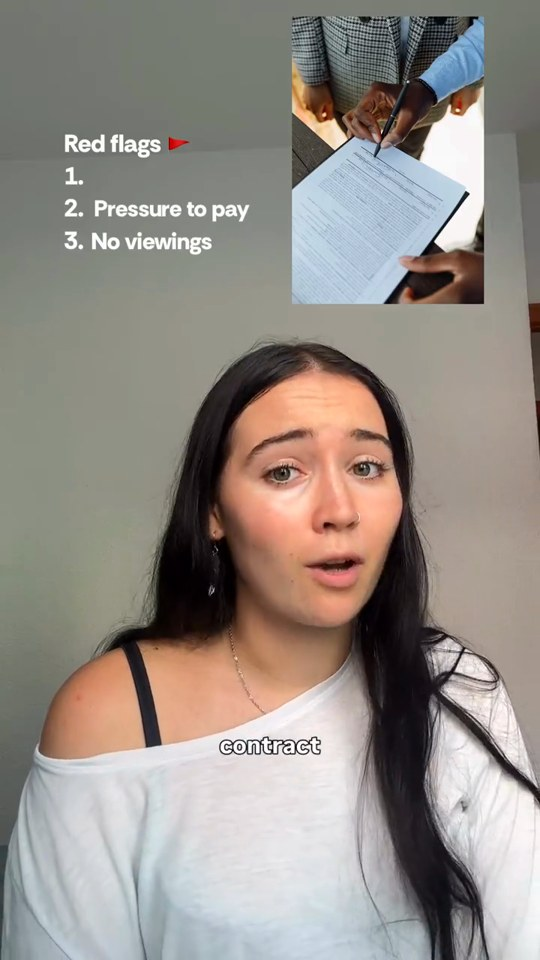
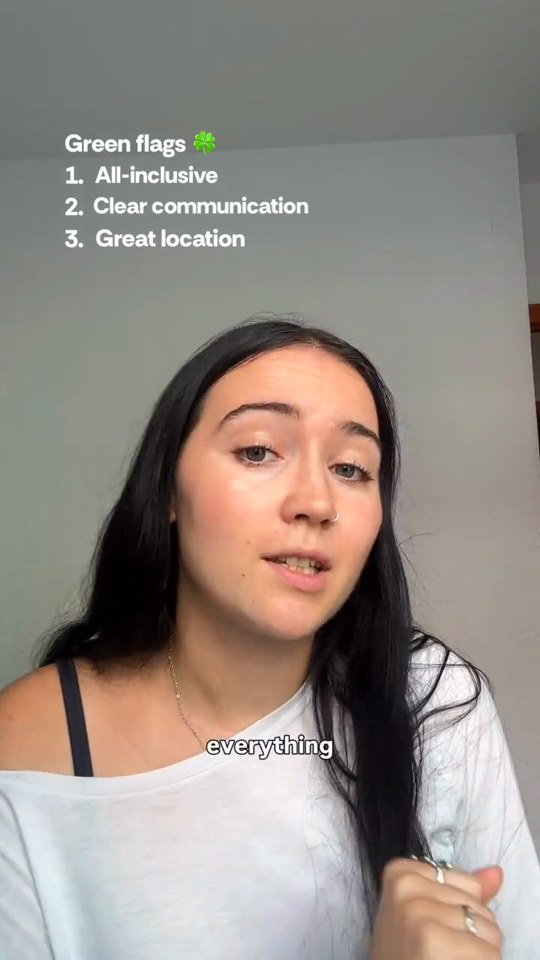
Add files via upload

diff --git a/index.html b/index.html
@@ -9,7 +9,7 @@
 <link rel="preconnect" href="https://fonts.googleapis.com">
 <link rel="preconnect" href="https://fonts.gstatic.com" crossorigin>
 <link href="https://fonts.googleapis.com/css2?family=Geist:wght@300;400;500;600;700&family=Inter:wght@400;500&family=Space+Grotesk:wght@500;700&display=swap" rel="stylesheet">
-<link rel="stylesheet" href="assets/css/style.css?v=15">
+<link rel="stylesheet" href="assets/css/style.css?v=16">
 
 <meta property="og:type" content="website">
 <meta property="og:title" content="Digna Studio - Designer | Creator | UGC">
@@ -155,10 +155,10 @@
         <h3 class="ha-h ha-h2">Contact</h3>
         <ul class="ha-list ha-small">
           <li>the Netherlands | Spain</li>
-          <li><a href="mailto:digna.lambrichtsx@gmail.com">digna.lambrichtsx@gmail.com</a></li>
+          <li><a href="mailto:info@dignastudio.com">info@dignastudio.com</a></li>
         </ul>
       </div>
-      <div class="ha-col ha-col-r reveal" style="padding-top:118px;">
+      <div class="ha-col ha-col-r reveal">
         <div class="ha-stat">
           <h3 class="ha-h">Years of<br>Experience</h3>
           <div class="ha-num" data-count="6">6</div>
@@ -210,9 +210,9 @@
       <div class="footer-cta">
         <span class="corner tl"></span><span class="corner tr"></span>
         <span class="corner bl"></span><span class="corner br"></span>
-        <a class="footer-swap" href="mailto:digna.lambrichtsx@gmail.com" aria-label="Email Digna">
+        <a class="footer-swap" href="mailto:info@dignastudio.com" aria-label="Email Digna">
           <span class="fs-line fs-a">Let us help you take your social media to the next level</span>
-          <span class="fs-line fs-b" aria-hidden="true">digna.lambrichtsx@gmail.com</span>
+          <span class="fs-line fs-b" aria-hidden="true">info@dignastudio.com</span>
         </a>
       </div>
       <div class="footer-bar">

diff --git a/ugc.html b/ugc.html
@@ -69,7 +69,7 @@
 
 <section class="section section-light"><div class="container">
 <div class="sec-head reveal"><p class="sec-num blue">01</p><h2 class="mid-title" style="text-transform:uppercase;color:var(--ink);">Let me introduce<br>myself</h2></div>
-<p class="lead reveal" style="color:#555;max-width:54ch;margin-top:34px;">I&rsquo;m Digna, a UGC strategist and content creator with 4+ years of experience in content creation. I create video that feels like a recommendation from a friend &mdash; because that is what converts.</p>
+<p class="lead reveal" style="color:#555;max-width:54ch;margin-top:34px;">I&rsquo;m Digna, a UGC strategist and content creator with 4+ years of experience in content creation. I create video that feels like a recommendation from a friend, because that is what converts.</p>
 <div class="ugc-niche-tags reveal"><span>Travel</span><span>Beauty</span><span>Lifestyle</span><span>Retail</span></div>
 </div></section>
 
@@ -233,9 +233,9 @@
       <div class="footer-cta">
         <span class="corner tl"></span><span class="corner tr"></span>
         <span class="corner bl"></span><span class="corner br"></span>
-        <a class="footer-swap" href="mailto:digna.lambrichtsx@gmail.com" aria-label="Email Digna">
+        <a class="footer-swap" href="mailto:info@dignastudio.com" aria-label="Email Digna">
           <span class="fs-line fs-a">Let us help you take your social media to the next level</span>
-          <span class="fs-line fs-b" aria-hidden="true">digna.lambrichtsx@gmail.com</span>
+          <span class="fs-line fs-b" aria-hidden="true">info@dignastudio.com</span>
         </a>
       </div>
       <div class="footer-bar">

diff --git a/projects/malmo.html b/projects/malmo.html
@@ -9,7 +9,7 @@
 <link rel="preconnect" href="https://fonts.googleapis.com">
 <link rel="preconnect" href="https://fonts.gstatic.com" crossorigin>
 <link href="https://fonts.googleapis.com/css2?family=Geist:wght@300;400;500;600;700&family=Inter:wght@400;500&family=Space+Grotesk:wght@500;700&display=swap" rel="stylesheet">
-<link rel="stylesheet" href="../assets/css/style.css?v=15">
+<link rel="stylesheet" href="../assets/css/style.css?v=16">
 
 <meta property="og:type" content="website">
 <meta property="og:title" content="Interaction Design, Malmö — DignaStudio">
@@ -163,9 +163,9 @@
       <div class="footer-cta">
         <span class="corner tl"></span><span class="corner tr"></span>
         <span class="corner bl"></span><span class="corner br"></span>
-        <a class="footer-swap" href="mailto:digna.lambrichtsx@gmail.com" aria-label="Email Digna">
+        <a class="footer-swap" href="mailto:info@dignastudio.com" aria-label="Email Digna">
           <span class="fs-line fs-a">Let us help you take your social media to the next level</span>
-          <span class="fs-line fs-b" aria-hidden="true">digna.lambrichtsx@gmail.com</span>
+          <span class="fs-line fs-b" aria-hidden="true">info@dignastudio.com</span>
         </a>
       </div>
       <div class="footer-bar">

diff --git a/projects/sydney-heel-pain-clinic.html b/projects/sydney-heel-pain-clinic.html
@@ -9,7 +9,7 @@
 <link rel="preconnect" href="https://fonts.googleapis.com">
 <link rel="preconnect" href="https://fonts.gstatic.com" crossorigin>
 <link href="https://fonts.googleapis.com/css2?family=Geist:wght@300;400;500;600;700&family=Inter:wght@400;500&family=Space+Grotesk:wght@500;700&display=swap" rel="stylesheet">
-<link rel="stylesheet" href="../assets/css/style.css?v=15">
+<link rel="stylesheet" href="../assets/css/style.css?v=16">
 
 <meta property="og:type" content="website">
 <meta property="og:title" content="Sydney Heel Pain Clinic — DignaStudio">
@@ -124,9 +124,9 @@
       <div class="footer-cta">
         <span class="corner tl"></span><span class="corner tr"></span>
         <span class="corner bl"></span><span class="corner br"></span>
-        <a class="footer-swap" href="mailto:digna.lambrichtsx@gmail.com" aria-label="Email Digna">
+        <a class="footer-swap" href="mailto:info@dignastudio.com" aria-label="Email Digna">
           <span class="fs-line fs-a">Let us help you take your social media to the next level</span>
-          <span class="fs-line fs-b" aria-hidden="true">digna.lambrichtsx@gmail.com</span>
+          <span class="fs-line fs-b" aria-hidden="true">info@dignastudio.com</span>
         </a>
       </div>
       <div class="footer-bar">

diff --git a/branding/alchemy-all-metal.html b/branding/alchemy-all-metal.html
@@ -9,7 +9,7 @@
 <link rel="preconnect" href="https://fonts.googleapis.com">
 <link rel="preconnect" href="https://fonts.gstatic.com" crossorigin>
 <link href="https://fonts.googleapis.com/css2?family=Geist:wght@300;400;500;600;700&family=Inter:wght@400;500&family=Space+Grotesk:wght@500;700&display=swap" rel="stylesheet">
-<link rel="stylesheet" href="../assets/css/style.css?v=15">
+<link rel="stylesheet" href="../assets/css/style.css?v=16">
 
 <meta property="og:type" content="website">
 <meta property="og:title" content="Alchemy All Metal — DignaStudio">
@@ -100,9 +100,9 @@
       <div class="footer-cta">
         <span class="corner tl"></span><span class="corner tr"></span>
         <span class="corner bl"></span><span class="corner br"></span>
-        <a class="footer-swap" href="mailto:digna.lambrichtsx@gmail.com" aria-label="Email Digna">
+        <a class="footer-swap" href="mailto:info@dignastudio.com" aria-label="Email Digna">
           <span class="fs-line fs-a">Let us help you take your social media to the next level</span>
-          <span class="fs-line fs-b" aria-hidden="true">digna.lambrichtsx@gmail.com</span>
+          <span class="fs-line fs-b" aria-hidden="true">info@dignastudio.com</span>
         </a>
       </div>
       <div class="footer-bar">

diff --git a/about.html b/about.html
@@ -9,7 +9,7 @@
 <link rel="preconnect" href="https://fonts.googleapis.com">
 <link rel="preconnect" href="https://fonts.gstatic.com" crossorigin>
 <link href="https://fonts.googleapis.com/css2?family=Geist:wght@300;400;500;600;700&family=Inter:wght@400;500&family=Space+Grotesk:wght@500;700&display=swap" rel="stylesheet">
-<link rel="stylesheet" href="assets/css/style.css?v=15">
+<link rel="stylesheet" href="assets/css/style.css?v=16">
 
 <meta property="og:type" content="website">
 <meta property="og:title" content="About Digna - Designer | Creator | UGC">
@@ -140,9 +140,9 @@
       <div class="footer-cta">
         <span class="corner tl"></span><span class="corner tr"></span>
         <span class="corner bl"></span><span class="corner br"></span>
-        <a class="footer-swap" href="mailto:digna.lambrichtsx@gmail.com" aria-label="Email Digna">
+        <a class="footer-swap" href="mailto:info@dignastudio.com" aria-label="Email Digna">
           <span class="fs-line fs-a">Let us help you take your social media to the next level</span>
-          <span class="fs-line fs-b" aria-hidden="true">digna.lambrichtsx@gmail.com</span>
+          <span class="fs-line fs-b" aria-hidden="true">info@dignastudio.com</span>
         </a>
       </div>
       <div class="footer-bar">

diff --git a/projects/greenscene.html b/projects/greenscene.html
@@ -9,7 +9,7 @@
 <link rel="preconnect" href="https://fonts.googleapis.com">
 <link rel="preconnect" href="https://fonts.gstatic.com" crossorigin>
 <link href="https://fonts.googleapis.com/css2?family=Geist:wght@300;400;500;600;700&family=Inter:wght@400;500&family=Space+Grotesk:wght@500;700&display=swap" rel="stylesheet">
-<link rel="stylesheet" href="../assets/css/style.css?v=15">
+<link rel="stylesheet" href="../assets/css/style.css?v=16">
 
 <meta property="og:type" content="website">
 <meta property="og:title" content="The Green Scene — DignaStudio">
@@ -111,9 +111,9 @@
       <div class="footer-cta">
         <span class="corner tl"></span><span class="corner tr"></span>
         <span class="corner bl"></span><span class="corner br"></span>
-        <a class="footer-swap" href="mailto:digna.lambrichtsx@gmail.com" aria-label="Email Digna">
+        <a class="footer-swap" href="mailto:info@dignastudio.com" aria-label="Email Digna">
           <span class="fs-line fs-a">Let us help you take your social media to the next level</span>
-          <span class="fs-line fs-b" aria-hidden="true">digna.lambrichtsx@gmail.com</span>
+          <span class="fs-line fs-b" aria-hidden="true">info@dignastudio.com</span>
         </a>
       </div>
       <div class="footer-bar">

diff --git a/work.html b/work.html
@@ -9,7 +9,7 @@
 <link rel="preconnect" href="https://fonts.googleapis.com">
 <link rel="preconnect" href="https://fonts.gstatic.com" crossorigin>
 <link href="https://fonts.googleapis.com/css2?family=Geist:wght@300;400;500;600;700&family=Inter:wght@400;500&family=Space+Grotesk:wght@500;700&display=swap" rel="stylesheet">
-<link rel="stylesheet" href="assets/css/style.css?v=15">
+<link rel="stylesheet" href="assets/css/style.css?v=16">
 
 <meta property="og:type" content="website">
 <meta property="og:title" content="Projects & Branding — DignaStudio">
@@ -138,9 +138,9 @@
       <div class="footer-cta">
         <span class="corner tl"></span><span class="corner tr"></span>
         <span class="corner bl"></span><span class="corner br"></span>
-        <a class="footer-swap" href="mailto:digna.lambrichtsx@gmail.com" aria-label="Email Digna">
+        <a class="footer-swap" href="mailto:info@dignastudio.com" aria-label="Email Digna">
           <span class="fs-line fs-a">Let us help you take your social media to the next level</span>
-          <span class="fs-line fs-b" aria-hidden="true">digna.lambrichtsx@gmail.com</span>
+          <span class="fs-line fs-b" aria-hidden="true">info@dignastudio.com</span>
         </a>
       </div>
       <div class="footer-bar">

diff --git a/projects/lets-dance.html b/projects/lets-dance.html
@@ -9,7 +9,7 @@
 <link rel="preconnect" href="https://fonts.googleapis.com">
 <link rel="preconnect" href="https://fonts.gstatic.com" crossorigin>
 <link href="https://fonts.googleapis.com/css2?family=Geist:wght@300;400;500;600;700&family=Inter:wght@400;500&family=Space+Grotesk:wght@500;700&display=swap" rel="stylesheet">
-<link rel="stylesheet" href="../assets/css/style.css?v=15">
+<link rel="stylesheet" href="../assets/css/style.css?v=16">
 
 <meta property="og:type" content="website">
 <meta property="og:title" content="Let's Dance! — DignaStudio">
@@ -125,9 +125,9 @@
       <div class="footer-cta">
         <span class="corner tl"></span><span class="corner tr"></span>
         <span class="corner bl"></span><span class="corner br"></span>
-        <a class="footer-swap" href="mailto:digna.lambrichtsx@gmail.com" aria-label="Email Digna">
+        <a class="footer-swap" href="mailto:info@dignastudio.com" aria-label="Email Digna">
           <span class="fs-line fs-a">Let us help you take your social media to the next level</span>
-          <span class="fs-line fs-b" aria-hidden="true">digna.lambrichtsx@gmail.com</span>
+          <span class="fs-line fs-b" aria-hidden="true">info@dignastudio.com</span>
         </a>
       </div>
       <div class="footer-bar">

diff --git a/projects/powervrouwen.html b/projects/powervrouwen.html
@@ -9,7 +9,7 @@
 <link rel="preconnect" href="https://fonts.googleapis.com">
 <link rel="preconnect" href="https://fonts.gstatic.com" crossorigin>
 <link href="https://fonts.googleapis.com/css2?family=Geist:wght@300;400;500;600;700&family=Inter:wght@400;500&family=Space+Grotesk:wght@500;700&display=swap" rel="stylesheet">
-<link rel="stylesheet" href="../assets/css/style.css?v=15">
+<link rel="stylesheet" href="../assets/css/style.css?v=16">
 
 <meta property="og:type" content="website">
 <meta property="og:title" content="powervrouwen — DignaStudio">
@@ -105,9 +105,9 @@
       <div class="footer-cta">
         <span class="corner tl"></span><span class="corner tr"></span>
         <span class="corner bl"></span><span class="corner br"></span>
-        <a class="footer-swap" href="mailto:digna.lambrichtsx@gmail.com" aria-label="Email Digna">
+        <a class="footer-swap" href="mailto:info@dignastudio.com" aria-label="Email Digna">
           <span class="fs-line fs-a">Let us help you take your social media to the next level</span>
-          <span class="fs-line fs-b" aria-hidden="true">digna.lambrichtsx@gmail.com</span>
+          <span class="fs-line fs-b" aria-hidden="true">info@dignastudio.com</span>
         </a>
       </div>
       <div class="footer-bar">

diff --git a/projects/bonnefanten.html b/projects/bonnefanten.html
@@ -9,7 +9,7 @@
 <link rel="preconnect" href="https://fonts.googleapis.com">
 <link rel="preconnect" href="https://fonts.gstatic.com" crossorigin>
 <link href="https://fonts.googleapis.com/css2?family=Geist:wght@300;400;500;600;700&family=Inter:wght@400;500&family=Space+Grotesk:wght@500;700&display=swap" rel="stylesheet">
-<link rel="stylesheet" href="../assets/css/style.css?v=15">
+<link rel="stylesheet" href="../assets/css/style.css?v=16">
 
 <meta property="og:type" content="website">
 <meta property="og:title" content="Bonnefanten — DignaStudio">
@@ -130,9 +130,9 @@
       <div class="footer-cta">
         <span class="corner tl"></span><span class="corner tr"></span>
         <span class="corner bl"></span><span class="corner br"></span>
-        <a class="footer-swap" href="mailto:digna.lambrichtsx@gmail.com" aria-label="Email Digna">
+        <a class="footer-swap" href="mailto:info@dignastudio.com" aria-label="Email Digna">
           <span class="fs-line fs-a">Let us help you take your social media to the next level</span>
-          <span class="fs-line fs-b" aria-hidden="true">digna.lambrichtsx@gmail.com</span>
+          <span class="fs-line fs-b" aria-hidden="true">info@dignastudio.com</span>
         </a>
       </div>
       <div class="footer-bar">

diff --git a/projects/framedworks.html b/projects/framedworks.html
@@ -9,7 +9,7 @@
 <link rel="preconnect" href="https://fonts.googleapis.com">
 <link rel="preconnect" href="https://fonts.gstatic.com" crossorigin>
 <link href="https://fonts.googleapis.com/css2?family=Geist:wght@300;400;500;600;700&family=Inter:wght@400;500&family=Space+Grotesk:wght@500;700&display=swap" rel="stylesheet">
-<link rel="stylesheet" href="../assets/css/style.css?v=15">
+<link rel="stylesheet" href="../assets/css/style.css?v=16">
 
 <meta property="og:type" content="website">
 <meta property="og:title" content="framedworks — DignaStudio">
@@ -111,9 +111,9 @@
       <div class="footer-cta">
         <span class="corner tl"></span><span class="corner tr"></span>
         <span class="corner bl"></span><span class="corner br"></span>
-        <a class="footer-swap" href="mailto:digna.lambrichtsx@gmail.com" aria-label="Email Digna">
+        <a class="footer-swap" href="mailto:info@dignastudio.com" aria-label="Email Digna">
           <span class="fs-line fs-a">Let us help you take your social media to the next level</span>
-          <span class="fs-line fs-b" aria-hidden="true">digna.lambrichtsx@gmail.com</span>
+          <span class="fs-line fs-b" aria-hidden="true">info@dignastudio.com</span>
         </a>
       </div>
       <div class="footer-bar">
